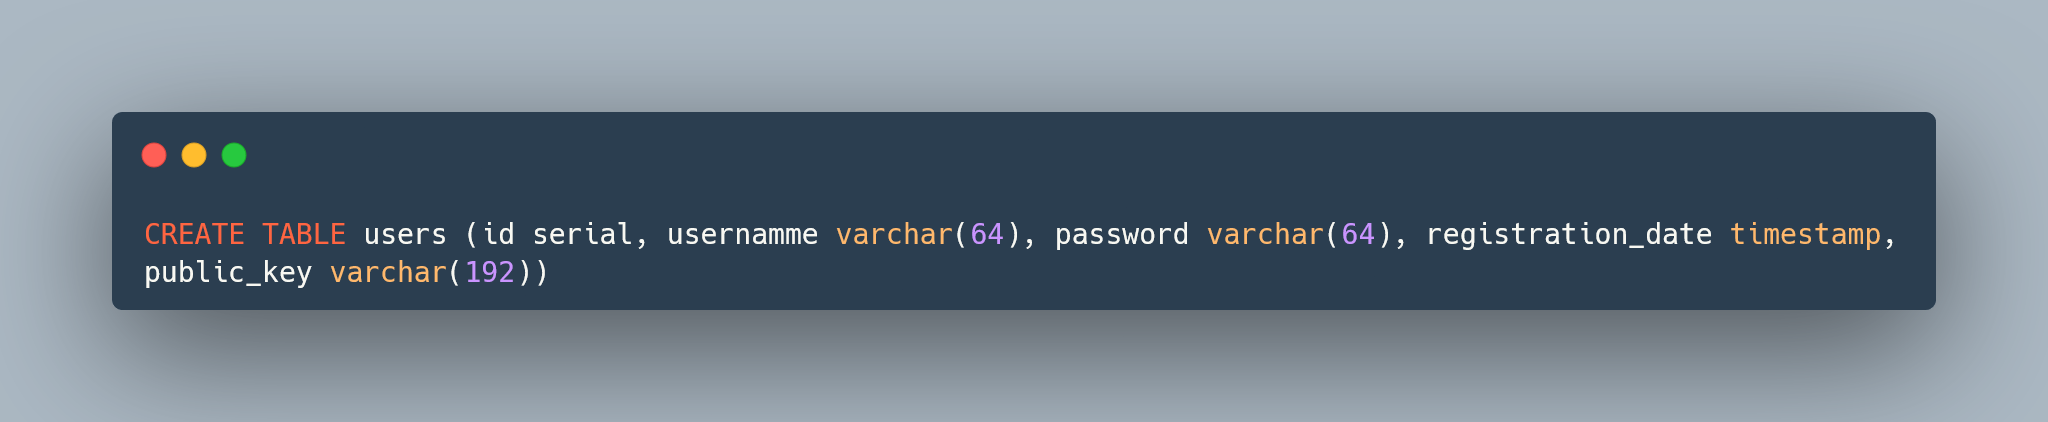
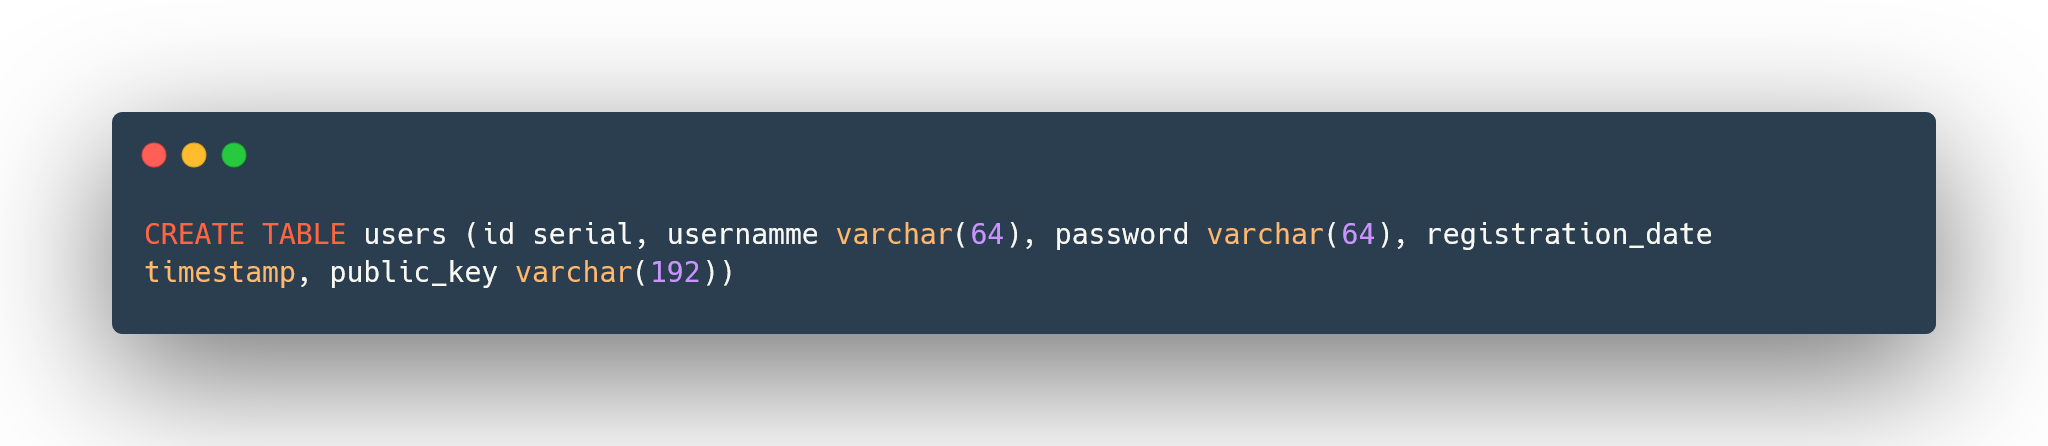
V 0.1 Finally

diff --git a/src/routes/main/+page.svelte b/src/routes/main/+page.svelte
@@ -40,8 +40,6 @@
         }
 
         handleDatabaseSync()
-
-        mode = "SET"
         
         getRandomString()
 
@@ -96,6 +94,10 @@
 
     function removeItem (id) {
         list = list.filter(item => !(item.id === id && item.state !== "input"))
+        if (load)
+        {
+            handleDatabaseSync()
+        }
     }
 
     function handleEdit (id)
@@ -125,6 +127,11 @@
 
                 list = [...list]
             }
+
+            if (load)
+            {
+                handleDatabaseSync()
+            }
         }
     }
 
@@ -140,6 +147,11 @@
                 }
 
                 createNewListItem()
+            }
+
+            if (load)
+            {
+                handleDatabaseSync()
             }
         }
     }
@@ -172,7 +184,18 @@
 
             if (response.ok)
             {
+                const responseData = await response.json()
                 
+                if (mode == "GET")
+                {
+                    const toBeSwapped = JSON.parse(responseData.decryptedMessage)
+                    list = toBeSwapped
+
+                    console.log(toBeSwapped)
+
+                    mode = "SET"
+                    createNewListItem()
+                }
             }
         }
             
@@ -224,12 +247,6 @@
             <div class="border-2 border-solid border-gray-500 w-full h-full rounded-xl">
                 <div class="text-gray-500 text-center grid grid-cols-1 grid-rows-1">
                     <p class="font-basic text-3xl col-start-1 row-start-1 w-full border-b-2 border-gray-500 mt-1">Qucik To Do list</p>
-                    <!-- <button class="col-start-1 row-start-1 mr-0 ml-auto relative -top-0.5">
-                        <svg width="46" height="46" fill="none" stroke="currentColor" stroke-linecap="round" stroke-linejoin="round" stroke-width="1" viewBox="0 0 24 24" xmlns="http://www.w3.org/2000/svg">
-                            <path d="M12 5v14"></path>
-                            <path d="M5 12h14"></path>
-                        </svg>
-                    </button> -->
                 </div>
                 <div class="overflow-y-auto max-h-[83vh] overflow-x-hidden">
                     {#each list as element}
@@ -242,8 +259,13 @@
                                 <input type="text" class="col-start-1 row-start-1 w-full h-full p-4 focus:outline-none" value="{element.text}" on:keydown={(event) => handleChange(element.id, event)}>
                             </div>
                         {:else}
-                            <div class="w-full grid justify-start place-items-center grid-cols-1 grid-rows-1 border-b-2 border-gray-500 group h-fit">
-                                <p class="col-start-1 row-start-1 w-full p-4 text-gray-500 text-balance break-words">{element.text}</p>
+                            <div class="w-full grid justify-start place-items-center grid-cols-1 grid-rows-1 group h-fit">
+                                <p class="col-start-1 row-start-1 w-full p-4 text-gray-500 text-balance break-words">
+                                    <svg width="46" height="46" fill="none" stroke="currentColor" stroke-linecap="round" stroke-linejoin="round" stroke-width="1" viewBox="0 0 24 24" xmlns="http://www.w3.org/2000/svg" class="float-left relative -top-2">
+                                        <path d="M12 16a4 4 0 1 0 0-8 4 4 0 0 0 0 8Z"></path>
+                                    </svg>
+                                    {element.text}
+                                </p>
                                 <button class="col-start-1 row-start-1 mr-12 ml-auto relative top-0 text-green-500 opacity-0 group-hover:opacity-100 transition-opacity" on:click={handleEdit(element.id)}>
                                     <svg width="46" height="46" fill="none" stroke="currentColor" stroke-linecap="round" stroke-linejoin="round" stroke-width="1" viewBox="0 0 24 24" xmlns="http://www.w3.org/2000/svg">
                                         <path d="M9 7H6a2 2 0 0 0-2 2v9a2 2 0 0 0 2 2h9a2 2 0 0 0 2-2v-3"></path>

diff --git a/src/routes/api/cryptoProvidersForQuickList/+server.js b/src/routes/api/cryptoProvidersForQuickList/+server.js
@@ -58,8 +58,8 @@ export const POST = async ({ cookies, request }) =>
 
             else 
             {
-                insertQuery = 'UPDATE quicktodo SET encryptedlist = $1, WHERE user_id = $2'
-                insertParams = [encryptedMessage, id]
+                insertQuery = 'UPDATE quicktodo SET encryptedlist = $1, iv = $2 WHERE user_id = $3'
+                insertParams = [encryptedMessage, iv, id]
                 await client.query(insertQuery, insertParams)
             }
 
@@ -76,11 +76,8 @@ export const POST = async ({ cookies, request }) =>
             const encryptedMessage = values.encryptedlist
 
             let decryptedMessage = decryptMessage(privateKey, encryptedMessage, iv, publicKey)
-            // decryptedMessage = JSON.parse(decryptedMessage)
 
-            console.log(decryptedMessage)
-
-            return json({ status: 200 })
+            return json({ decryptedMessage: decryptedMessage ,status: 200 })
         }
     }
 

diff --git a/docs/database/scheme.md b/docs/database/scheme.md
@@ -2,11 +2,21 @@
 
 Here are schemes for tables in your database so you will be able to quickly create this in your environment.
 
-### Users
-```
-+----+----------+----------+-------------------+------------+
-| id | username | password | registration_date | public_key |
-+----+----------+----------+-------------------+------------+
+### Users {style=text-align:center}
+![UsersTable](../img/users.png)
+```postgres
+CREATE TABLE users (id serial, username varchar(64), password varchar(64),
+registration_date timestamp, public_key varchar(192))
 ```
 
-![UsersTable](https://github.com/Mnichus3142/Time-Rush/blob/main/docs/img/users.png)
+### Cookies {style=text-align:center}
+![CookiesTable](../img/cookies.png)
+```postgres
+CREATE TABLE cookies (id serial, cookie_value varchar(64), user_id int, remember_me bool)
+```
+
+### Quick To Do {style=text-align:center}
+![QuickToDoTable](../img/quicktodo.png)
+```postgres
+CREATE TABLE quicktodo (id serial, user_id int, iv text, encryptedlist text)
+```

diff --git a/docs/setup.md b/docs/setup.md
@@ -1,6 +1,11 @@
 # Setup wiki
 1. Open "src/connectionParameters.json"
 2. Enter data used for connection (don't worry if you don't have SSL certificate, just leave this field blank)
-3. [Createdatabase]
-4. Compile and run your fresh new app
-5. Enjoy!!
+3. [Create Database](database/scheme.md)
+
+| Run locally (dev) | Run locally (build) | Run in docker* |
+| ------------- | ------------- | ------------- |
+| 1. cd to app dir | 1. npm run build | (sudo) docker build . -t timerush |
+| 2. npm run dev | 2. 🚧WIP🚧 | (sudo) docker run -p 4173:4173 |
+
+*Currently docker is running npm run build and then npm run previev
